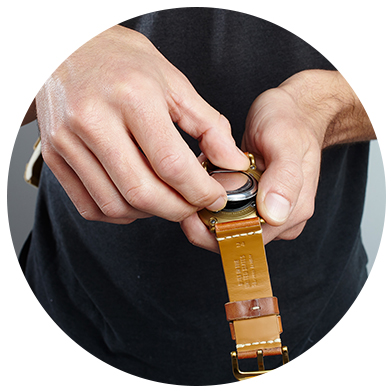
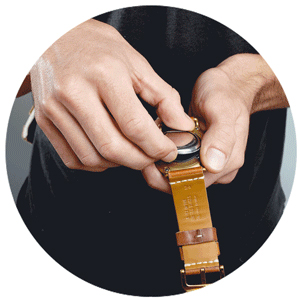
making design updates from michelle

diff --git a/app/about.html b/app/about.html
@@ -34,8 +34,8 @@
     <div class="container-fluid">
       <div class="header m-top-20">
         <ul class="nav pull-right inline">
-          <li class="active"><a href="#" class="text-medium font-open-bold">HOME</a></li>
-          <li><a href="#" class="text-medium font-open-bold">PRE-ORDER</a></li>
+          <li class="active"><a href="index.html" class="text-medium font-open-bold">HOME</a></li>
+          <li><a href="preorder.html" class="text-medium font-open-bold">PRE-ORDER</a></li>
         </ul>
         <h1 class="logo">Chronos</h1>
         <h3 class="">
@@ -57,7 +57,7 @@
         </div>
       </section>
       <section class="section row">
-        <div class="col-sm-5 col-sm-offset-1">
+        <div class="col-sm-6">
           <img src="images/about/nichol.jpg" class="full-width" alt="Mark Nichol" />
           <h2 class="text-large black-text font-open-bold uppercase">Mark Nichol - CEO & Founder</h2>
           <p class="middle-grey-text text-medium font-source  m-top-20 line-height-200">
@@ -67,7 +67,7 @@
             <i>Favorite Watch: Rolex GMT</i>
           </p>
         </div>
-        <div class="col-sm-5">
+        <div class="col-sm-6">
           <img src="images/about/fromowitz.jpg" class="full-width" alt="Luke Fromowitz" />
           <h2 class="text-large black-text font-open-bold uppercase">Luke Fromowitz - CTO & Co-Founder</h2>
           <p class="middle-grey-text text-medium font-source  m-top-20 line-height-200">
@@ -83,7 +83,7 @@
       <a name="faq"></a>
       <div class="container">
         <section class="section faq row">
-          <div class="col-sm-10 col-sm-offset-1">
+          <div class="col-sm-12">
             <h2 class="text-large font-source-bold m-btm-20">FAQ</h2>
             <div class="accordion">
               <h3 class="font-cardo text-large cursor-pointer black-text">Q: Will Chronos fit my watch?</h3>
@@ -236,7 +236,6 @@
     <!-- build:js(.) scripts/vendor.js -->
     <!-- bower:js -->
     <script src="/bower_components/jquery/dist/jquery.js"></script>
-    <script src="/bower_components/jquery-ui/jquery-ui.js"></script>
     <!-- endbower -->
     <!-- endbuild -->
 
@@ -262,11 +261,12 @@
     <!-- endbuild -->
     <script>
       $(function() {
-        $( ".accordion" ).accordion({
-      		heightStyle: "content",
-      		collapsible: true,
-      		active: false
-      	});
+        jQuery(document).ready(function(){
+          $('.accordion h3').click(function() {
+              $(this).next().toggle();
+              return false;
+          }).next().hide();
+        });
       });
     </script>
     <!-- Google Analytics: change UA-XXXXX-X to be your site's ID. -->

diff --git a/app/index.html b/app/index.html
@@ -34,8 +34,8 @@
     <div class="container-fluid">
       <div class="header m-top-20">
         <ul class="nav pull-right inline">
-          <li class="active"><a href="#" class="text-medium font-open-bold">HOME</a></li>
-          <li><a href="#" class="text-medium font-open-bold">PRE-ORDER</a></li>
+          <li class="active"><a href="index.html" class="text-medium font-open-bold">HOME</a></li>
+          <li><a href="preorder.html" class="text-medium font-open-bold">PRE-ORDER</a></li>
         </ul>
         <h1 class="logo">Chronos</h1>
         <h3 class="">
@@ -123,7 +123,7 @@
           </p>
         </div>
         <div class="col-sm-4">
-          <img src="images/home/circle-2.gif" alt="" class="full-width m-btm-20"/>
+          <img src="images/home/circle-2.jpg" alt="" class="full-width m-btm-20"/>
           <h3 class="font-open-bold black-text text-large">ADAPTABLE DESIGN</h3>
           <p class="font-source middle-grey-text text-medium line-height-200">
             Clever micro-suction technology easily attaches and detaches to your watches.
@@ -132,7 +132,7 @@
           </p>
         </div>
         <div class="col-sm-4">
-          <img src="images/home/circle-3.gif" alt="" class="full-width m-btm-20"/>
+          <img src="images/home/circle-3.jpg" alt="" class="full-width m-btm-20"/>
           <h3 class="font-open-bold black-text text-large">CONNECTED, NOT DISTRACTED</h3>
           <p class="font-source middle-grey-text text-medium line-height-200">
             Smart vibration and light notifications filter out the noise and alert you to just the essentials.
@@ -223,10 +223,10 @@
         <div class="col-sm-10 col-sm-offset-1">
           <div class="row">
             <div class="col-sm-1">
-              <h4><a href="/about">About</a></h4>
+              <h4><a href="/about.html">About</a></h4>
             </div>
             <div class="col-sm-1">
-              <h4><a href="/about#faq">FAQ</a></h4>
+              <h4><a href="/about.html#faq">FAQ</a></h4>
             </div>
             <div class="col-sm-2">
               <h4>FOLLOW US ON SOCIAL</h4>
@@ -279,7 +279,6 @@
     <!-- build:js(.) scripts/vendor.js -->
     <!-- bower:js -->
     <script src="/bower_components/jquery/dist/jquery.js"></script>
-    <script src="/bower_components/jquery-ui/jquery-ui.js"></script>
     <!-- endbower -->
     <!-- endbuild -->
 

diff --git a/app/preorder.html b/app/preorder.html
@@ -34,8 +34,8 @@
     <div class="container-fluid">
       <div class="header m-top-20">
         <ul class="nav pull-right inline">
-          <li class="active"><a href="#" class="text-medium font-open-bold">HOME</a></li>
-          <li><a href="#" class="text-medium font-open-bold">PRE-ORDER</a></li>
+          <li class="active"><a href="index.html" class="text-medium font-open-bold">HOME</a></li>
+          <li><a href="preorder.html" class="text-medium font-open-bold">PRE-ORDER</a></li>
         </ul>
         <h1 class="logo">Chronos</h1>
         <h3 class="">
@@ -114,7 +114,6 @@
     <!-- build:js(.) scripts/vendor.js -->
     <!-- bower:js -->
     <script src="/bower_components/jquery/dist/jquery.js"></script>
-    <script src="/bower_components/jquery-ui/jquery-ui.js"></script>
     <!-- endbower -->
     <!-- endbuild -->
 
